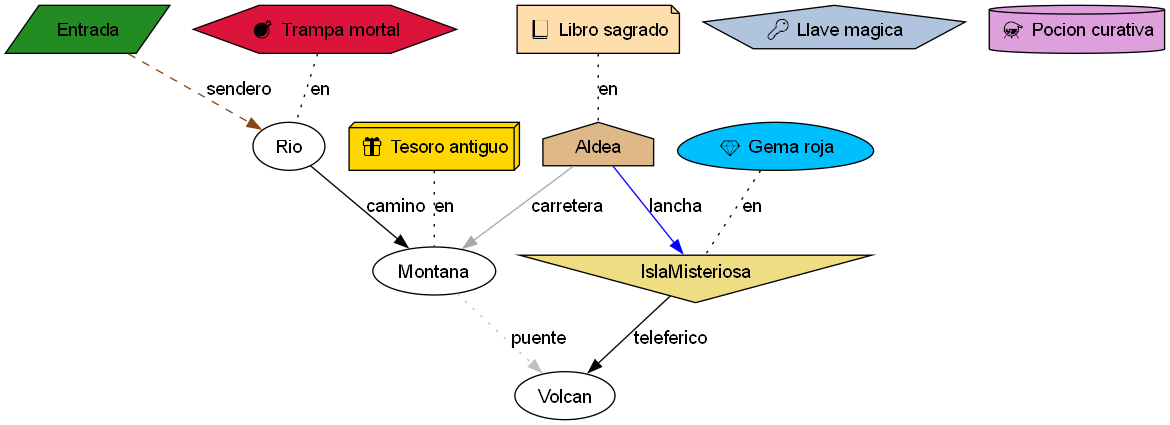
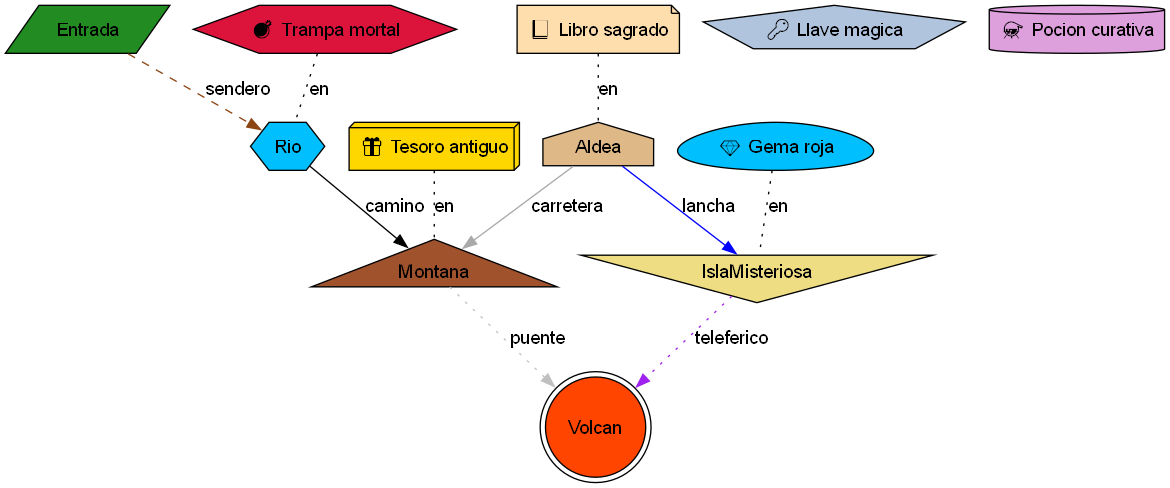
[ADD] Corrección de errores

diff --git a/Proyecto2/Proyecto 2V2/Main/src/main/java/com/mycompany/main/DotGenerator.java b/Proyecto2/Proyecto 2V2/Main/src/main/java/com/mycompany/main/DotGenerator.java
@@ -32,7 +32,7 @@ public class DotGenerator {
         StringBuilder dotContent = new StringBuilder();
         
         // Inicio del archivo DOT
-        dotContent.append("digraph \"").append(world.getName()).append("\" {\n");
+        dotContent.append("digraph \"").append(sanitizeString(world.getName())).append("\" {\n");
         dotContent.append("  // Configuración general\n");
         dotContent.append("  graph [fontname=\"Arial\", rankdir=TB, overlap=false, splines=true];\n");
         dotContent.append("  node [fontname=\"Arial\", style=filled];\n");
@@ -43,10 +43,10 @@ public class DotGenerator {
         Map<String, Place> placeMap = new HashMap<>();
         for (Place place : world.getPlaces()) {
             placeMap.put(place.getName(), place);
-            dotContent.append("  \"").append(place.getName()).append("\" [");
+            dotContent.append("  \"").append(sanitizeString(place.getName())).append("\" [");
             dotContent.append("shape=").append(place.getShape()).append(", ");
             dotContent.append("fillcolor=\"").append(place.getFillColor()).append("\", ");
-            dotContent.append("label=\"").append(place.getName()).append("\", ");
+            dotContent.append("label=\"").append(sanitizeString(place.getName())).append("\", ");
             dotContent.append("pos=\"").append(place.getX()).append(",").append(place.getY()).append("!\"];\n");
         }
         dotContent.append("\n");
@@ -55,11 +55,11 @@ public class DotGenerator {
         dotContent.append("  // Objetos en coordenadas específicas\n");
         for (MapObject object : world.getObjects()) {
             if (!object.isAtPlace()) {
-                String objectId = "obj_" + object.getName().replaceAll("\\s+", "_");
+                String objectId = "obj_" + sanitizeString(object.getName()).replaceAll("\\s+", "_");
                 dotContent.append("  \"").append(objectId).append("\" [");
                 dotContent.append("shape=").append(object.getShape()).append(", ");
                 dotContent.append("fillcolor=\"").append(object.getFillColor()).append("\", ");
-                dotContent.append("label=\"").append(object.getEmoji()).append(" ").append(object.getName()).append("\", ");
+                dotContent.append("label=\"").append(object.getEmoji()).append(" ").append(sanitizeString(object.getName())).append("\", ");
                 dotContent.append("pos=\"").append(object.getX()).append(",").append(object.getY()).append("!\"];\n");
             }
         }
@@ -69,14 +69,14 @@ public class DotGenerator {
         dotContent.append("  // Objetos en lugares\n");
         for (MapObject object : world.getObjects()) {
             if (object.isAtPlace()) {
-                String objectId = "obj_" + object.getName().replaceAll("\\s+", "_");
+                String objectId = "obj_" + sanitizeString(object.getName()).replaceAll("\\s+", "_");
                 dotContent.append("  \"").append(objectId).append("\" [");
                 dotContent.append("shape=").append(object.getShape()).append(", ");
                 dotContent.append("fillcolor=\"").append(object.getFillColor()).append("\", ");
-                dotContent.append("label=\"").append(object.getEmoji()).append(" ").append(object.getName()).append("\"];\n");
+                dotContent.append("label=\"").append(object.getEmoji()).append(" ").append(sanitizeString(object.getName())).append("\"];\n");
                 
                 // Conexión entre el objeto y el lugar
-                dotContent.append("  \"").append(objectId).append("\" -> \"").append(object.getPlaceId()).append("\" [");
+                dotContent.append("  \"").append(objectId).append("\" -> \"").append(sanitizeString(object.getPlaceId())).append("\" [");
                 dotContent.append("label=\"en\", dir=none, style=dotted];\n");
             }
         }
@@ -85,8 +85,8 @@ public class DotGenerator {
         // Generar conexiones entre lugares
         dotContent.append("  // Conexiones entre lugares\n");
         for (Connection conn : world.getConnections()) {
-            dotContent.append("  \"").append(conn.getSource()).append("\" -> \"").append(conn.getTarget()).append("\" [");
-            dotContent.append("label=\"").append(conn.getType()).append("\", ");
+            dotContent.append("  \"").append(sanitizeString(conn.getSource())).append("\" -> \"").append(sanitizeString(conn.getTarget())).append("\" [");
+            dotContent.append("label=\"").append(sanitizeString(conn.getType())).append("\", ");
             dotContent.append("color=\"").append(conn.getLineColor()).append("\", ");
             dotContent.append("style=").append(conn.getLineStyle()).append("];\n");
         }
@@ -94,9 +94,32 @@ public class DotGenerator {
         // Fin del archivo DOT
         dotContent.append("}\n");
         
-        // Escribir archivo
-        try (FileWriter writer = new FileWriter(filePath)) {
+        // Escribir archivo con codificación UTF-8
+        try (FileWriter writer = new FileWriter(filePath, java.nio.charset.StandardCharsets.UTF_8)) {
             writer.write(dotContent.toString());
         }
+    }
+    
+    /**
+     * Limpia una cadena para uso en GraphViz, removiendo acentos y caracteres especiales.
+     * 
+     * @param input Cadena a limpiar
+     * @return Cadena limpia
+     */
+    private String sanitizeString(String input) {
+        if (input == null) return "";
+        
+        // Reemplazar caracteres acentuados por sus equivalentes sin acento
+        String normalized = java.text.Normalizer.normalize(input, java.text.Normalizer.Form.NFD);
+        normalized = normalized.replaceAll("[\\p{InCombiningDiacriticalMarks}]", "");
+        
+        // Reemplazar la ñ/Ñ por n/N
+        normalized = normalized.replace('ñ', 'n').replace('Ñ', 'N');
+        
+        // Reemplazar otros caracteres problemáticos para Graphviz
+        normalized = normalized.replace("\"", "'")
+                              .replace("\\", "\\\\");
+        
+        return normalized;
     }
 }

diff --git a/Proyecto2/Proyecto 2V2/Main/src/main/java/com/mycompany/main/MapObject.java b/Proyecto2/Proyecto 2V2/Main/src/main/java/com/mycompany/main/MapObject.java
@@ -81,20 +81,22 @@ public class MapObject {
      * @return Forma para Graphviz
      */
     public String getShape() {
-        switch (type.toLowerCase()) {
-            case "tesoro": return "box3d";
-            case "llave": return "pentagon";
-            case "arma": return "diamond";
-            case "objeto mágico": case "objeto magico": return "component";
-            case "poción": case "pocion": return "cylinder";
-            case "trampa": return "hexagon";
-            case "libro": return "note";
-            case "herramienta": return "folder";
-            case "bandera": return "tab";
-            case "gema": return "egg";
-            default: return "box"; // Forma predeterminada
-        }
+    switch (type.toLowerCase()) {
+        case "tesoro": return "box3d";
+        case "llave": return "pentagon";
+        case "arma": return "diamond";
+        case "objeto-mágico": 
+        case "objeto-magico": return "component";
+        case "poción": 
+        case "pocion": return "cylinder";
+        case "trampa": return "hexagon";
+        case "libro": return "note";
+        case "herramienta": return "folder";
+        case "bandera": return "tab";
+        case "gema": return "egg";
+        default: return "box"; // Forma predeterminada
     }
+}
     
     /**
      * Obtiene el color de relleno según el tipo de objeto.
@@ -102,20 +104,22 @@ public class MapObject {
      * @return Color para Graphviz
      */
     public String getFillColor() {
-        switch (type.toLowerCase()) {
-            case "tesoro": return "gold";
-            case "llave": return "lightsteelblue";
-            case "arma": return "orangered";
-            case "objeto mágico": case "objeto magico": return "violet";
-            case "poción": case "pocion": return "plum";
-            case "trampa": return "crimson";
-            case "libro": return "navajowhite";
-            case "herramienta": return "darkkhaki";
-            case "bandera": return "white";
-            case "gema": return "deepskyblue";
-            default: return "white"; // Color predeterminado
-        }
+    switch (type.toLowerCase()) {
+        case "tesoro": return "gold";
+        case "llave": return "lightsteelblue";
+        case "arma": return "orangered";
+        case "objeto-mágico": 
+        case "objeto-magico": return "violet";
+        case "poción": 
+        case "pocion": return "plum";
+        case "trampa": return "crimson";
+        case "libro": return "navajowhite";
+        case "herramienta": return "darkkhaki";
+        case "bandera": return "white";
+        case "gema": return "deepskyblue";
+        default: return "white"; // Color predeterminado
     }
+}
     
     /**
      * Obtiene el emoji Unicode según el tipo de objeto.
@@ -127,8 +131,10 @@ public class MapObject {
         case "tesoro": return "\uD83C\uDF81"; // 🎁
         case "llave": return "\uD83D\uDD11"; // 🔑
         case "arma": return "\uD83D\uDDE1\uFE0F"; // 🗡
-        case "objeto mágico": case "objeto magico": return "\u2728"; // ✨
-        case "poción": case "pocion": return "\u2697\uFE0F"; // ⚗
+        case "objeto-mágico": 
+        case "objeto-magico": return "\u2728"; // ✨
+        case "poción": 
+        case "pocion": return "\u2697\uFE0F"; // ⚗
         case "trampa": return "\uD83D\uDCA3"; // 💣
         case "libro": return "\uD83D\uDCD5"; // 📕
         case "herramienta": return "\uD83D\uDEE0\uFE0F"; // 🛠

diff --git a/Proyecto2/Proyecto 2V2/Main/src/main/java/com/mycompany/main/Place.java b/Proyecto2/Proyecto 2V2/Main/src/main/java/com/mycompany/main/Place.java
@@ -56,20 +56,23 @@ public class Place {
      * @return Forma para Graphviz
      */
     public String getShape() {
-        switch (type.toLowerCase()) {
-            case "playa": return "ellipse";
-            case "cueva": return "box";
-            case "templo": return "octagon";
-            case "jungla": return "parallelogram";
-            case "montaña": return "triangle";
-            case "pueblo": return "house";
-            case "isla": return "invtriangle";
-            case "río": return "hexagon";
-            case "volcán": return "doublecircle";
-            case "pantano": return "trapezium";
-            default: return "ellipse"; // Forma predeterminada
-        }
+    switch (type.toLowerCase()) {
+        case "playa": return "ellipse";
+        case "cueva": return "box";
+        case "templo": return "octagon";
+        case "jungla": return "parallelogram";
+        case "montaña": 
+        case "montana": return "triangle";
+        case "pueblo": return "house";
+        case "isla": return "invtriangle";
+        case "río": 
+        case "rio": return "hexagon";
+        case "volcán": 
+        case "volcan": return "doublecircle";
+        case "pantano": return "trapezium";
+        default: return "ellipse"; // Forma predeterminada
     }
+}
     
     /**
      * Obtiene el color de relleno según el tipo de lugar.
@@ -77,20 +80,23 @@ public class Place {
      * @return Color para Graphviz
      */
     public String getFillColor() {
-        switch (type.toLowerCase()) {
-            case "playa": return "lightblue";
-            case "cueva": return "gray";
-            case "templo": return "gold";
-            case "jungla": return "forestgreen";
-            case "montaña": return "sienna";
-            case "pueblo": return "burlywood";
-            case "isla": return "lightgoldenrod";
-            case "río": return "deepskyblue";
-            case "volcán": return "orangered";
-            case "pantano": return "darkseagreen";
-            default: return "white"; // Color predeterminado
-        }
+    switch (type.toLowerCase()) {
+        case "playa": return "lightblue";
+        case "cueva": return "gray";
+        case "templo": return "gold";
+        case "jungla": return "forestgreen";
+        case "montaña": 
+        case "montana": return "sienna";
+        case "pueblo": return "burlywood";
+        case "isla": return "lightgoldenrod";
+        case "río": 
+        case "rio": return "deepskyblue";
+        case "volcán": 
+        case "volcan": return "orangered";
+        case "pantano": return "darkseagreen";
+        default: return "white"; // Color predeterminada
     }
+}
     
     @Override
     public String toString() {

diff --git a/Proyecto2/Proyecto 2V2/Main/src/main/java/com/mycompany/main/Connection.java b/Proyecto2/Proyecto 2V2/Main/src/main/java/com/mycompany/main/Connection.java
@@ -49,17 +49,18 @@ public class Connection {
      * @return Estilo de línea para Graphviz
      */
     public String getLineStyle() {
-        switch (type.toLowerCase()) {
-            case "camino": return "solid";
-            case "puente": return "dotted";
-            case "sendero": return "dashed";
-            case "carretera": return "solid";
-            case "nado": return "dashed";
-            case "lancha": return "solid";
-            case "teleférico": return "dotted";
-            default: return "solid"; // Estilo predeterminado
-        }
+    switch (type.toLowerCase()) {
+        case "camino": return "solid";
+        case "puente": return "dotted";
+        case "sendero": return "dashed";
+        case "carretera": return "solid";
+        case "nado": return "dashed";
+        case "lancha": return "solid";
+        case "teleférico": 
+        case "teleferico": return "dotted";
+        default: return "solid"; // Estilo predeterminado
     }
+}
     
     /**
      * Obtiene el color de la línea según el tipo de conexión.
@@ -67,17 +68,18 @@ public class Connection {
      * @return Color para Graphviz
      */
     public String getLineColor() {
-        switch (type.toLowerCase()) {
-            case "camino": return "black";
-            case "puente": return "gray";
-            case "sendero": return "saddlebrown";
-            case "carretera": return "darkgray";
-            case "nado": return "deepskyblue";
-            case "lancha": return "blue";
-            case "teleférico": return "purple";
-            default: return "black"; // Color predeterminado
-        }
+    switch (type.toLowerCase()) {
+        case "camino": return "black";
+        case "puente": return "gray";
+        case "sendero": return "saddlebrown";
+        case "carretera": return "darkgray";
+        case "nado": return "deepskyblue";
+        case "lancha": return "blue";
+        case "teleférico": 
+        case "teleferico": return "purple";
+        default: return "black"; // Color predeterminado
     }
+}
     
     @Override
     public String toString() {
